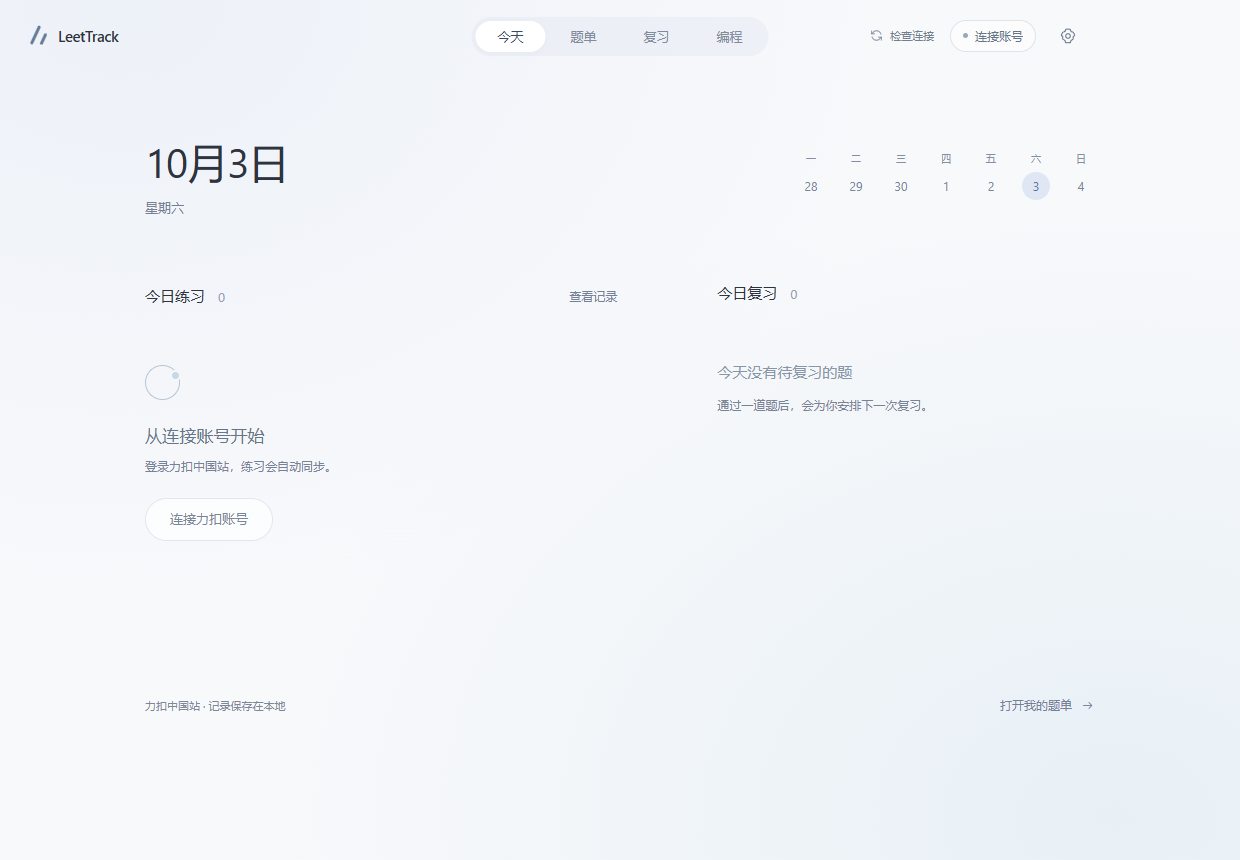
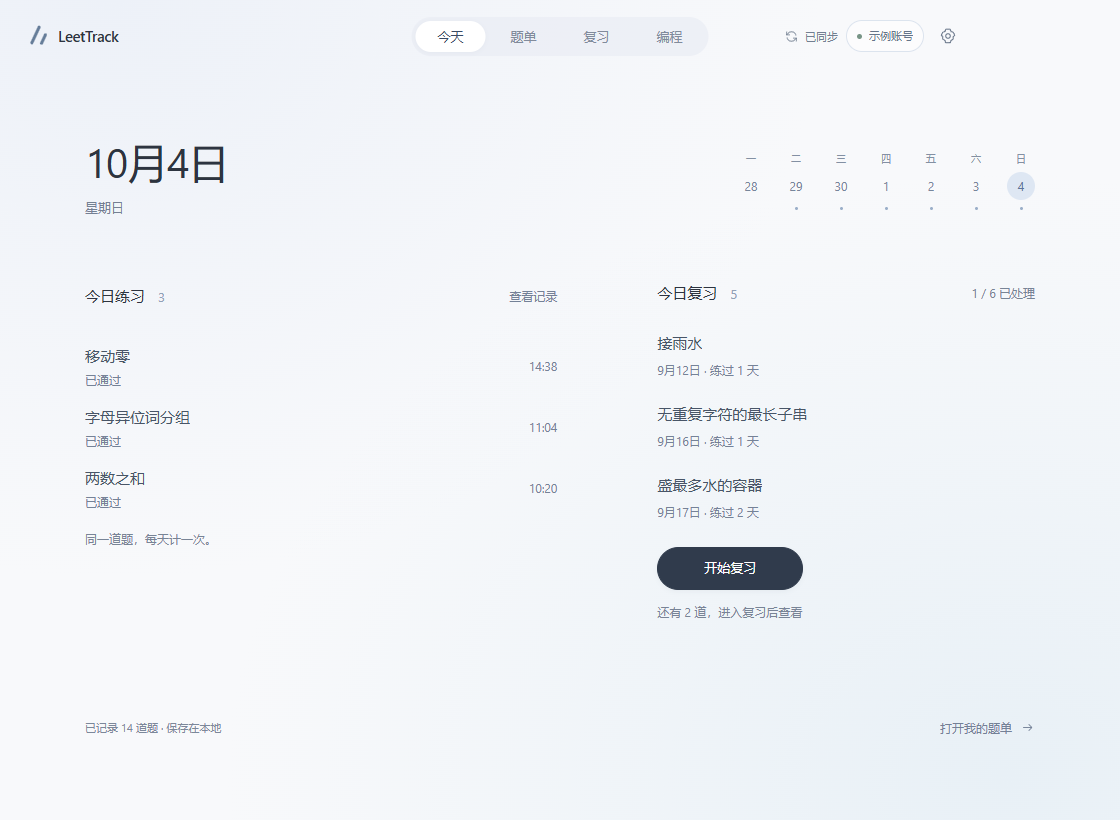
Refine README layout and add product previews [skip ci]

diff --git a/README.md b/README.md
@@ -1,116 +1,74 @@
+<div align="center">
+
+<img src="build/app.png" alt="LeetTrack 图标" width="64" height="64">
+
 # LeetTrack
 
-力扣中国站的桌面练习记录器。自动同步每天做过的题，用题单查看练习次数，安排每天要复习的内容，也可以直接在软件里写代码。
+自动记录每天做过的题，安排下一次复习。
 
-## 下载与安装
+力扣中国站的桌面练习记录器
 
-在 [GitHub Releases](https://github.com/devinfenn/leettrack/releases/latest) 下载 `LeetTrack-Setup-0.1.1-x64.exe`。支持 Windows 10/11 的 64 位系统。
+**[下载 Windows 版](https://github.com/devinfenn/leettrack/releases/download/v0.1.1/LeetTrack-Setup-0.1.1-x64.exe)** &nbsp; · &nbsp; [使用指南](docs/guide.md) &nbsp; · &nbsp; [反馈问题](https://github.com/devinfenn/leettrack/issues)
 
-1. 双击安装包，按中文向导选择安装用户和目录。
-2. 安装完成后，从桌面或开始菜单打开 **LeetTrack**。
-3. 点击右上角 **连接账号**，在软件打开的力扣中国站页面登录，随后自动同步。
-4. 使用题单查看练习次数，进入复习页处理今日安排，或进入编程页写代码。
+<sub>Windows 10 / 11 · 64 位 · v0.1.1</sub>
 
-安装包包含桌面运行环境，无需另外安装 Node.js。当前发行版尚未签署 Windows 代码签名，Windows 可能显示未识别发布者提示。同一 Release 提供 SHA-256 校验值。
+</div>
 
-在 Windows“设置 → 应用”中可卸载。练习记录和代码草稿保存在当前用户目录，卸载保留这些数据。
+<br>
 
-![LeetTrack](docs/images/app.png)
+![今日练习与复习安排](docs/images/app.png)
 
-## 功能
+<p align="center"><sub>实际应用界面 · 图中账号与练习记录均为示例数据</sub></p>
 
-- **自动记录**：运行时每 5 分钟同步，返回软件或电脑唤醒时检查新提交，至少间隔 30 秒。退出后停止同步，重新打开时检查新增提交。评测中的记录会较快刷新。
-- **每天只计一次**：同一道题、北京时间同一天，无论提交多少次，只记一个练习日。当日任意一次通过，显示已通过；失败或待评测仍计练习，不推进复习间隔。
-- **题单**：内置官方热题 100、面试经典 150，显示练过几天与最近练习日期。支持题名/题号搜索和练习状态筛选。
-- **每日复习**：每天最多 6 道到期题；选择独立做出、需要提示或没做出，安排下一次。同一天修改反馈只计一次，反馈不会新增刷题记录。
-- **编程**：C++ 17 编辑器，支持高亮、缩进、折叠、撤销和搜索。按题号/题名或中国站题目链接选择题目；草稿按账号和题目分别自动保存。
-- **账号与备份**：连接/切换账号，连续补齐历史、暂停和续传，导出提交记录与复习反馈的 JSON 备份。
+## 练习与复习
 
-独立做出按 1、3、7、14、30、60 天逐步延长间隔；需要提示安排 2 天后，没做出安排明天并优先出现。当天新通过的题从次日开始复习。稍后复习只切换当前题，不表示完成。复习依据已同步历史和用户反馈调整，不自动推断是否真正掌握。
+- **自动同步** — 连接力扣中国站账号，提交记录自动出现在软件里。同一道题在北京时间的同一天提交多次，只计一次练习。
+- **题单进度** — 热题 100、面试经典 150，查看每题练过几天、最近何时练习。
+- **每日复习** — 每天最多 6 道到期题，根据「独立做出 / 需要提示 / 没做出」调整下一次复习时间。
+- **直接写代码** — C++ 17 编辑器。LeetCode 模式交给力扣评测；ACM 模式分开编写核心算法和 main，检查输入输出后提交核心算法。
 
-## 编程模式
+练习记录、复习反馈和代码草稿保存在本机。支持补齐历史、切换账号和导出记录。
 
-**LeetCode 模式**只编辑核心代码。运行样例和提交力扣通过应用自己的登录会话交给力扣中国站。正式提交取得评测结果后同步原始提交；运行样例和本地检查不添加练习记录。
+<details>
+<summary>查看题单、复习和编程界面</summary>
 
-**ACM 模式**将核心算法和 `main` 分成两个编辑区。核心保持 LeetCode 的 `Solution` 接口，main 负责读取输入、调用核心函数、打印结果。
+### 题单
 
-- **检查输入输出**：替换核心函数为测试函数，运行实际 main，比较传入参数、调用次数及打印结果。使用官方样例参数、多组输入和不同空白字符。返回值是测试预设，不执行用户算法，也不表示算法通过。
-- **运行样例**：本地编译并执行实际核心代码和 main，显示 stdout/stderr，可编辑测试输入。一次本地运行不等于算法 AC。
-- **提交力扣**：先检查输入输出，通过后只把当前核心代码交给力扣完整评测，不发送 main 或本地助手。
+每题的练习天数和最近练习日期，一眼可见。
 
-ACM 输入第一行是 `T`。每组按函数参数顺序读取；一维数组先读长度，二维数组先读行数、再逐行读长度和元素；字符串用双引号包围。每组答案换行，数组元素用空格分隔。题目左侧的输入输出约定显示具体格式。
+![热题 100 的练习记录](docs/images/plans.png)
 
-支持普通函数题的数字、布尔、字符串、一维/二维数组，以及有输出参数元信息的原地修改题。链表、树、设计类和互动题暂不生成 ACM 接口，仍可使用 LeetCode 模式。IO 检查验证当前协议和测试，不证明所有可能的输入均正确。
+### 复习
 
-网络中断或查询超时后，可在本次应用会话中继续查询已收到的评测编号，避免重复发送。请求未取得编号时，需要先在力扣站内核对是否收到提交。
+一次专注一道题，回想、重做，再记录这次的掌握情况。
 
-### 配置 ACM 的 C++ 编译器
+![单题复习与反馈](docs/images/review.png)
 
-电脑已有 g++ 时，打开右上角设置，点击 **选择编译器**，选择安装目录中的 `g++.exe`。软件检查、保存配置并立即启用。
+### 编程
 
-尚未安装时，按 [MSYS2 官方说明](https://www.msys2.org/) 安装并更新 MSYS2，在 **MSYS2 UCRT64** 终端执行：
+核心算法与输入输出分开编写，草稿自动保存。
 
-```sh
-pacman -S --needed mingw-w64-ucrt-x86_64-gcc
-```
+![ACM 模式的代码编辑界面](docs/images/coding.png)
 
-默认位置是 `C:\msys64\ucrt64\bin\g++.exe`。选择实际安装位置即可。安装包暂不包含 C++ 工具链。也支持 PATH 中的 g++ 或 `LEETTRACK_CXX` 环境变量；在设置中选择的编译器优先。
+以上均为实际应用界面，使用示例数据；编程图展示编辑状态，未执行评测。
 
-编译最多等待 30 秒，单次程序运行 2.5 秒，输出最多 128 KB。本地执行是当前用户权限的正常程序执行，不提供隔离沙箱。
+</details>
 
-快捷键：`Ctrl+Enter` 运行、`Ctrl+Shift+Enter` 提交、`Ctrl+S` 保存，编辑器内部 `Ctrl+F` 搜索；题单和记录页 `Ctrl+K` 搜索，`Esc` 清空搜索。
+## 开始使用
 
-## 题单与同步范围
+1. [下载安装包](https://github.com/devinfenn/leettrack/releases/latest)，按中文向导完成安装。
+2. 打开 LeetTrack，点击右上角 **连接账号**，在力扣中国站页面登录。
+3. 正常刷题，回来查看记录与复习安排。
 
-题单为 2026-10-02 的公开官方快照，位于 `src/catalog.js`：
+安装包包含桌面运行环境，无需安装 Node.js。ACM 本地检查与运行需另行[配置 g++](docs/guide.md#配置-acm-的-c-编译器)。当前安装包未签名，Windows 可能提示未识别发布者；[发行页](https://github.com/devinfenn/leettrack/releases/latest)提供 SHA-256 校验值。
 
-- [LeetCode 热题 100](https://leetcode.cn/studyplan/top-100-liked/)
-- [面试经典 150 题](https://leetcode.cn/studyplan/top-interview-150/)
+## 本地开发
 
-官方题单调整后需要更新快照。提交接口未提供题目 slug 时，使用题单和公开题库元信息匹配；模糊或多义题名不自动合并，无法确认时打开提交详情。
-
-每批最多读取 200 条原始提交；补齐历史连续读取并保存进度，可暂停和跨重启续传。离线期间新增超过一批时继续读取。练习天数和复习仅依据已同步数据，历史未补齐时标注范围。
-
-网络失败从 30 秒起逐渐延长间隔重试，最长 15 分钟；尊重服务器限流等待时间。登录过期或验证页面提示用户处理。历史接口拒绝访问时保留数据、停止历史任务，普通新增记录仍可同步。
-
-## 数据保存
-
-安装版根目录：`%APPDATA%\LeetTrack\`。开发版根目录：项目的 `.local/`。二者分别保存，首次使用安装版需重新连接账号；开发版的原有数据仍保留。
-
-| 目录/文件 | 内容 |
-| --- | --- |
-| `records/` | 按账号隔离的原始提交元信息与同步进度 |
-| `reviews/` | 独立保存的复习反馈 |
-| `coding/` | 草稿、测试输入和题目缓存 |
-| `profile/` | 应用自己的登录会话 |
-| `preferences.json` | 本地编译器位置 |
-
-提交按 ID 去重、原子存盘，界面按题目和北京日期合并。文件损坏时保留原文件，网络失败时已有数据可继续查看。关闭窗口前等待当前草稿保存。
-
-导出格式为版本 2，包含账号、时间、提交记录和复习反馈，不包含会话或代码草稿。备份代码需保留 `coding/`。不要分享个人数据目录。
-
-登录窗口仅允许力扣中国站域名，不读取系统浏览器会话，也无需复制 Cookie。第三方 OAuth 跳转尚未验证；切换账号时，在力扣窗口先退出当前账号再登录。
-
-源码和安装包不包含个人会话、练习数据或开发阶段的历史设计文件。
-
-## 开发与打包
-
-使用 Node.js 24，在项目目录执行：
+使用 Node.js 24：
 
 ```sh
 npm ci
 npm start
 ```
 
-```sh
-npm test
-npm run dist:win
-```
-
-本地 C++ 测试需要 g++。`dist:win` 在 Windows 上生成中文 NSIS 安装向导，输出位于 `dist/`；`pack:win` 生成解包目录用于验证。图标由 `scripts/create-icons.ps1` 生成，许可证由 `scripts/generate-notices.cjs` 收集，编辑器本地打包。
-
-GitHub Actions 在推送后运行测试并构建 Windows 安装包。发布包采用明确的文件白名单，构建产物和个人数据不提交到 Git。
-
-`LeetTrack.exe --verify-installation` 检查打包后的界面、存盘和 C++ 执行。运行前必须设置 `LEETTRACK_DATA_DIR` 指向独立临时目录；该检查不连接力扣。验证结果和限制见 [VERIFICATION.md](VERIFICATION.md)。
-
-第三方组件许可证见 [THIRD_PARTY_NOTICES.md](THIRD_PARTY_NOTICES.md)。
+[开发与打包](docs/guide.md#开发与打包) · [验证记录](VERIFICATION.md) · [第三方许可证](THIRD_PARTY_NOTICES.md)

diff --git a/docs/guide.md b/docs/guide.md
@@ -1,0 +1,127 @@
+# LeetTrack 使用指南
+
+力扣中国站的桌面练习记录器。自动同步每天做过的题，用题单查看练习次数，安排每天要复习的内容，也可以直接在软件里写代码。
+
+[返回项目首页](../README.md)
+
+## 目录
+
+- [下载与安装](#下载与安装)
+- [功能与复习](#功能)
+- [编程模式](#编程模式)
+- [题单与同步范围](#题单与同步范围)
+- [数据保存](#数据保存)
+- [开发与打包](#开发与打包)
+
+## 下载与安装
+
+在 [GitHub Releases](https://github.com/devinfenn/leettrack/releases/latest) 下载 `LeetTrack-Setup-0.1.1-x64.exe`。支持 Windows 10/11 的 64 位系统。
+
+1. 双击安装包，按中文向导选择安装用户和目录。
+2. 安装完成后，从桌面或开始菜单打开 **LeetTrack**。
+3. 点击右上角 **连接账号**，在软件打开的力扣中国站页面登录，随后自动同步。
+4. 使用题单查看练习次数，进入复习页处理今日安排，或进入编程页写代码。
+
+安装包包含桌面运行环境，无需另外安装 Node.js。当前发行版尚未签署 Windows 代码签名，Windows 可能显示未识别发布者提示。同一 Release 提供 SHA-256 校验值。
+
+在 Windows“设置 → 应用”中可卸载。练习记录和代码草稿保存在当前用户目录，卸载保留这些数据。
+
+
+
+## 功能
+
+- **自动记录**：运行时每 5 分钟同步，返回软件或电脑唤醒时检查新提交，至少间隔 30 秒。退出后停止同步，重新打开时检查新增提交。评测中的记录会较快刷新。
+- **每天只计一次**：同一道题、北京时间同一天，无论提交多少次，只记一个练习日。当日任意一次通过，显示已通过；失败或待评测仍计练习，不推进复习间隔。
+- **题单**：内置官方热题 100、面试经典 150，显示练过几天与最近练习日期。支持题名/题号搜索和练习状态筛选。
+- **每日复习**：每天最多 6 道到期题；选择独立做出、需要提示或没做出，安排下一次。同一天修改反馈只计一次，反馈不会新增刷题记录。
+- **编程**：C++ 17 编辑器，支持高亮、缩进、折叠、撤销和搜索。按题号/题名或中国站题目链接选择题目；草稿按账号和题目分别自动保存。
+- **账号与备份**：连接/切换账号，连续补齐历史、暂停和续传，导出提交记录与复习反馈的 JSON 备份。
+
+独立做出按 1、3、7、14、30、60 天逐步延长间隔；需要提示安排 2 天后，没做出安排明天并优先出现。当天新通过的题从次日开始复习。稍后复习只切换当前题，不表示完成。复习依据已同步历史和用户反馈调整，不自动推断是否真正掌握。
+
+## 编程模式
+
+**LeetCode 模式**只编辑核心代码。运行样例和提交力扣通过应用自己的登录会话交给力扣中国站。正式提交取得评测结果后同步原始提交；运行样例和本地检查不添加练习记录。
+
+**ACM 模式**将核心算法和 `main` 分成两个编辑区。核心保持 LeetCode 的 `Solution` 接口，main 负责读取输入、调用核心函数、打印结果。
+
+- **检查输入输出**：替换核心函数为测试函数，运行实际 main，比较传入参数、调用次数及打印结果。使用官方样例参数、多组输入和不同空白字符。返回值是测试预设，不执行用户算法，也不表示算法通过。
+- **运行样例**：本地编译并执行实际核心代码和 main，显示 stdout/stderr，可编辑测试输入。一次本地运行不等于算法 AC。
+- **提交力扣**：先检查输入输出，通过后只把当前核心代码交给力扣完整评测，不发送 main 或本地助手。
+
+ACM 输入第一行是 `T`。每组按函数参数顺序读取；一维数组先读长度，二维数组先读行数、再逐行读长度和元素；字符串用双引号包围。每组答案换行，数组元素用空格分隔。题目左侧的输入输出约定显示具体格式。
+
+支持普通函数题的数字、布尔、字符串、一维/二维数组，以及有输出参数元信息的原地修改题。链表、树、设计类和互动题暂不生成 ACM 接口，仍可使用 LeetCode 模式。IO 检查验证当前协议和测试，不证明所有可能的输入均正确。
+
+网络中断或查询超时后，可在本次应用会话中继续查询已收到的评测编号，避免重复发送。请求未取得编号时，需要先在力扣站内核对是否收到提交。
+
+### 配置 ACM 的 C++ 编译器
+
+电脑已有 g++ 时，打开右上角设置，点击 **选择编译器**，选择安装目录中的 `g++.exe`。软件检查、保存配置并立即启用。
+
+尚未安装时，按 [MSYS2 官方说明](https://www.msys2.org/) 安装并更新 MSYS2，在 **MSYS2 UCRT64** 终端执行：
+
+```sh
+pacman -S --needed mingw-w64-ucrt-x86_64-gcc
+```
+
+默认位置是 `C:\msys64\ucrt64\bin\g++.exe`。选择实际安装位置即可。安装包暂不包含 C++ 工具链。也支持 PATH 中的 g++ 或 `LEETTRACK_CXX` 环境变量；在设置中选择的编译器优先。
+
+编译最多等待 30 秒，单次程序运行 2.5 秒，输出最多 128 KB。本地执行是当前用户权限的正常程序执行，不提供隔离沙箱。
+
+快捷键：`Ctrl+Enter` 运行、`Ctrl+Shift+Enter` 提交、`Ctrl+S` 保存，编辑器内部 `Ctrl+F` 搜索；题单和记录页 `Ctrl+K` 搜索，`Esc` 清空搜索。
+
+## 题单与同步范围
+
+题单为 2026-10-02 的公开官方快照，位于 `src/catalog.js`：
+
+- [LeetCode 热题 100](https://leetcode.cn/studyplan/top-100-liked/)
+- [面试经典 150 题](https://leetcode.cn/studyplan/top-interview-150/)
+
+官方题单调整后需要更新快照。提交接口未提供题目 slug 时，使用题单和公开题库元信息匹配；模糊或多义题名不自动合并，无法确认时打开提交详情。
+
+每批最多读取 200 条原始提交；补齐历史连续读取并保存进度，可暂停和跨重启续传。离线期间新增超过一批时继续读取。练习天数和复习仅依据已同步数据，历史未补齐时标注范围。
+
+网络失败从 30 秒起逐渐延长间隔重试，最长 15 分钟；尊重服务器限流等待时间。登录过期或验证页面提示用户处理。历史接口拒绝访问时保留数据、停止历史任务，普通新增记录仍可同步。
+
+## 数据保存
+
+安装版根目录：`%APPDATA%\LeetTrack\`。开发版根目录：项目的 `.local/`。二者分别保存，首次使用安装版需重新连接账号；开发版的原有数据仍保留。
+
+| 目录/文件 | 内容 |
+| --- | --- |
+| `records/` | 按账号隔离的原始提交元信息与同步进度 |
+| `reviews/` | 独立保存的复习反馈 |
+| `coding/` | 草稿、测试输入和题目缓存 |
+| `profile/` | 应用自己的登录会话 |
+| `preferences.json` | 本地编译器位置 |
+
+提交按 ID 去重、原子存盘，界面按题目和北京日期合并。文件损坏时保留原文件，网络失败时已有数据可继续查看。关闭窗口前等待当前草稿保存。
+
+导出格式为版本 2，包含账号、时间、提交记录和复习反馈，不包含会话或代码草稿。备份代码需保留 `coding/`。不要分享个人数据目录。
+
+登录窗口仅允许力扣中国站域名，不读取系统浏览器会话，也无需复制 Cookie。第三方 OAuth 跳转尚未验证；切换账号时，在力扣窗口先退出当前账号再登录。
+
+源码和安装包不包含个人会话、练习数据或开发阶段的历史设计文件。
+
+## 开发与打包
+
+使用 Node.js 24，在项目目录执行：
+
+```sh
+npm ci
+npm start
+```
+
+```sh
+npm test
+npm run dist:win
+```
+
+本地 C++ 测试需要 g++。`dist:win` 在 Windows 上生成中文 NSIS 安装向导，输出位于 `dist/`；`pack:win` 生成解包目录用于验证。图标由 `scripts/create-icons.ps1` 生成，许可证由 `scripts/generate-notices.cjs` 收集，编辑器本地打包。
+
+GitHub Actions 在推送后运行测试并构建 Windows 安装包。发布包采用明确的文件白名单，构建产物和个人数据不提交到 Git。
+
+`LeetTrack.exe --verify-installation` 检查打包后的界面、存盘和 C++ 执行。运行前必须设置 `LEETTRACK_DATA_DIR` 指向独立临时目录；该检查不连接力扣。验证结果和限制见 [VERIFICATION.md](../VERIFICATION.md)。
+
+第三方组件许可证见 [THIRD_PARTY_NOTICES.md](../THIRD_PARTY_NOTICES.md)。
